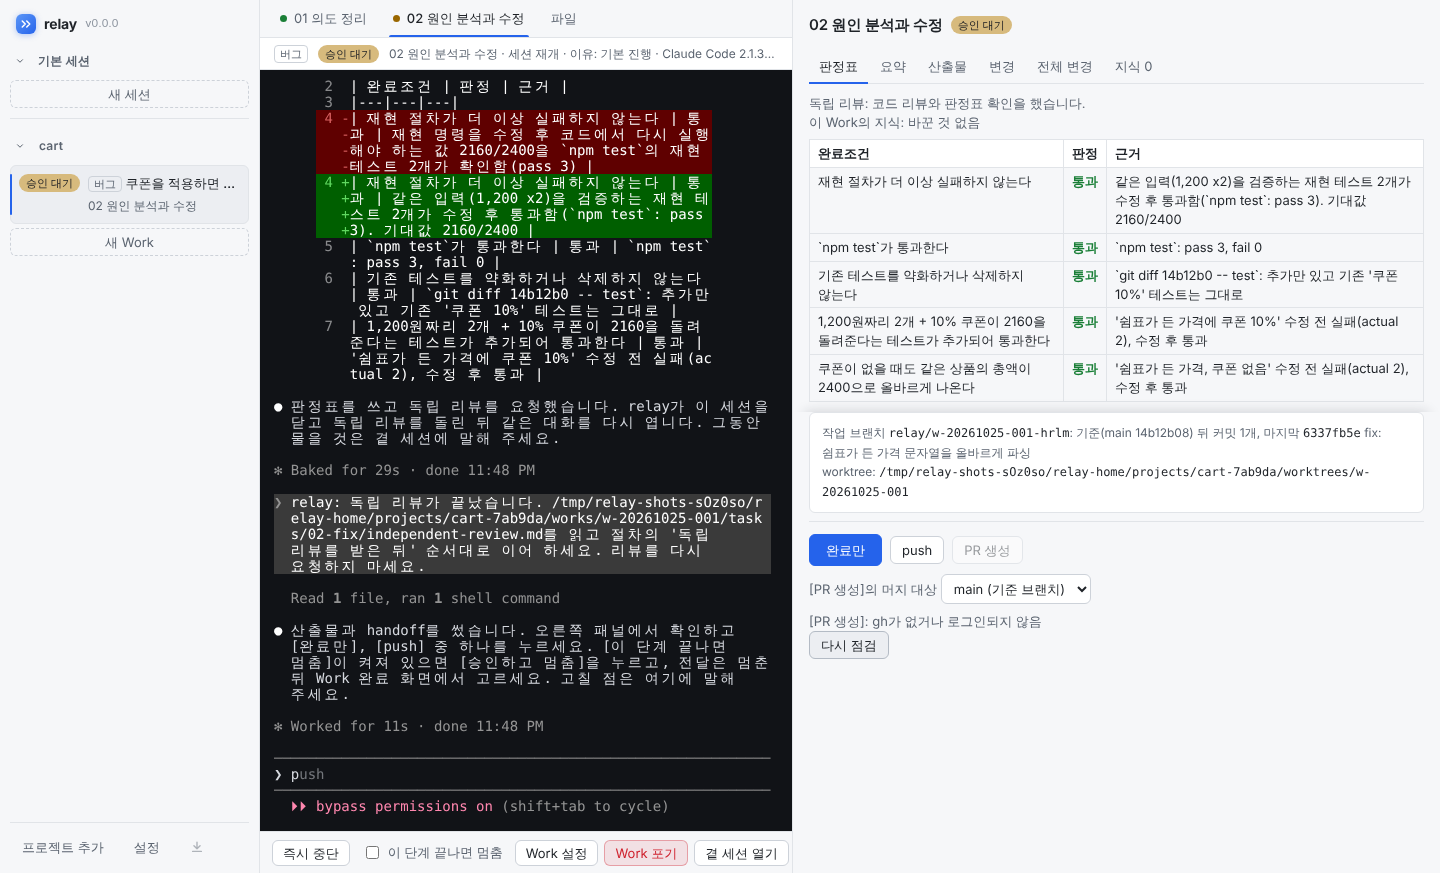
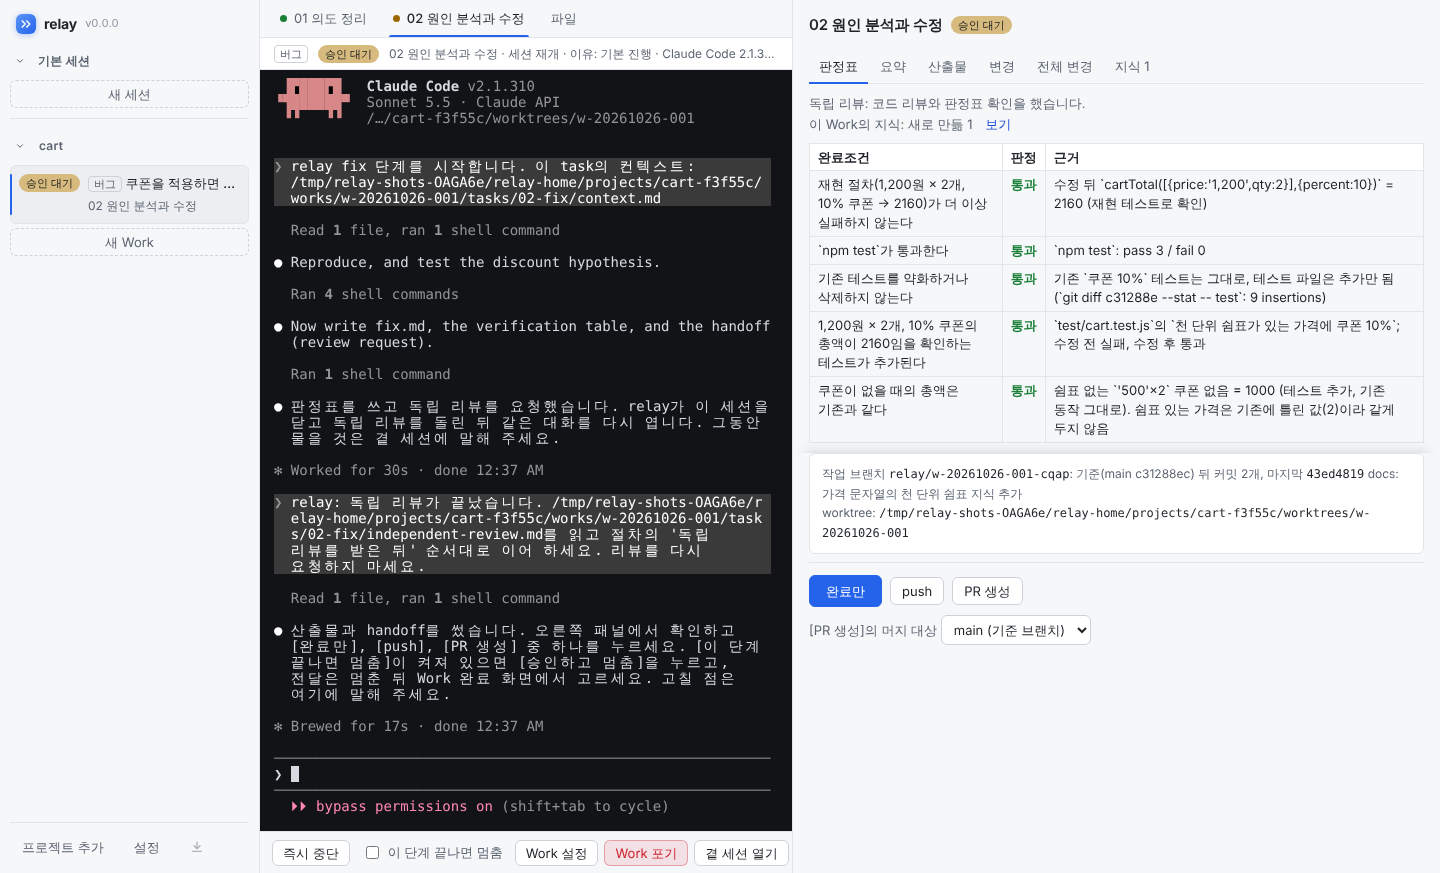
리뷰 반영: 숨기는 오류를 "이미 받음" 하나로, [레포 추가] 안내, PR 카드 이름, Work 완료 화면 다시 찍기
- shownErrors는 handoff의 status 오류 모두가 아니라 "독립 리뷰는 이미 받음"(ALREADY_REVIEWED)만 거른다.
  다시 연 세션의 턴이 끝나면(대기, 되돌림) 보인다는 것을 주석과 I188에 바로 적는다
- [흐름] 리뷰 중과 다시 연 세션이 일하는 동안 승인 화면에 형식 오류가 없는지 본다(고치기 전 코드에서 실패함)
- [레포 추가]: 두 단계 파이프라인의 마지막 단계에서 더하면 다음 단계가 없다. "다음에 시작하는 task부터"로 적는다
- PR 탭과 Work 완료 알림이 카드 이름을 같은 함수로 만든다
- README의 Work 완료 화면을 [PR 생성]이 켜지고 프롬프트가 빈 화면으로 다시 찍는다

Claude-Session: https://claude.ai/code/session_016n4hjFN5LrVRdvPyEFvnuX

diff --git a/app/test/flow/flow.test.ts b/app/test/flow/flow.test.ts
@@ -648,6 +648,35 @@ describe('[흐름] 최소 흐름 (M2)', () => {
     expect(blocked[0]?.reason).not.toContain('verification.md')
   })
 
+  it('리뷰 요청 handoff는 리뷰 중과 다시 연 세션이 일하는 동안 화면의 형식 오류가 아니다 (D494, D496, I188)', async () => {
+    // 다시 연 세션은 1.5초 쉰 뒤 마무리한다: 그동안 handoff는 리뷰 요청 때의 것이다
+    const after = steps('verify')
+    const s = await start(
+      scenario({ verify: [...after.slice(0, 1), { do: 'sleep', ms: 1500 }, ...after.slice(1)] }),
+    )
+    const seen: { status: string; errors: string[] }[] = []
+    let done = false
+    const watch = (async () => {
+      while (!done) {
+        const t = s.h.ui.works.get(s.workKey)?.tasks.find((x) => x.node === 'fix')
+        if (t && (t.status === 'reviewing' || t.status === 'working')) {
+          const r = await s.h.relay.review(s.workKey, t.id)
+          if (r?.handoffStatus === 'review_requested')
+            seen.push({ status: t.status, errors: r.errors.map((e) => e.message) })
+        }
+        await new Promise((r) => setTimeout(r, 50))
+      }
+    })()
+    const result = await drive(s.h.relay, s.h.ui, s.workKey)
+    done = true
+    await watch
+    await settle(s.h, s.workKey)
+    expect(result, s.h.ui.dump()).toMatchObject({ status: 'completed' })
+    // 다시 연 세션이 일하는 동안을 보았고, 그동안 형식 오류가 없었다
+    expect(seen.map((x) => x.status)).toContain('working')
+    expect(seen.flatMap((x) => x.errors)).toEqual([])
+  })
+
   it('형식 오류를 되돌리면 고쳐 쓴 handoff로 승인 대기가 된다 (D21, D107)', async () => {
     // 마무리 단계의 리뷰 요청 handoff가 형식을 어겼다. 고쳐 쓰면 리뷰를 받고 마무리한다 (D494)
     const bad = handoff({ status: 'review_requested', omit: ['요약'] })

diff --git a/app/src/renderer/src/Panel.tsx b/app/src/renderer/src/Panel.tsx
@@ -59,6 +59,9 @@ export function prCards(work: WorkView): PrView[] {
   return [...(work.pr ? [work.pr] : []), ...(work.prs ?? [])]
 }
 
+/** 카드가 여럿일 때 PR 카드의 이름: 레포(메인은 "메인")와 번호. PR 탭과 완료 알림이 같이 쓴다 */
+const cardName = (pr: PrView) => `${pr.repo || '메인'} PR #${pr.number}`
+
 /**
  * 승인 화면을 보일 task인가: 에이전트가 턴을 끝냈고 handoff가 있다. 막힘은 따로 보인다.
  * verify에서 멈춘 Work의 verify도 Work 완료 화면이다 (D119)
@@ -907,7 +910,7 @@ function PrSection({
             className={tab === `pr:${c.repo}` ? 'active' : ''}
             onClick={() => setTab(`pr:${c.repo}`)}
           >
-            {cards.length > 1 ? `${c.repo || '메인'} PR #${c.number}` : 'PR'}
+            {cards.length > 1 ? cardName(c) : 'PR'}
           </button>
         ))}
         <button
@@ -1008,9 +1011,8 @@ const MERGE_LABEL: Readonly<Record<string, string>> = {
 function DoneNotice({ work, branch }: { work: WorkView; branch: BranchInfo | null }) {
   const d = work.delivery?.status === 'succeeded' ? work.delivery : null
   const cards = prCards(work)
-  // 카드가 여럿이면 레포를 붙여 가른다 (탭 이름과 같은 꼴)
-  const name = (pr: PrView) =>
-    cards.length > 1 ? `${pr.repo || '메인'} PR #${pr.number}` : `PR #${pr.number}`
+  // 카드가 여럿이면 레포를 붙여 가른다 (탭 이름과 같음)
+  const name = (pr: PrView) => (cards.length > 1 ? cardName(pr) : `PR #${pr.number}`)
   return (
     <div className="notice done">
       Work 완료 (전달: {d ? d.label : '완료만'})

diff --git a/app/src/core/review.ts b/app/src/core/review.ts
@@ -29,6 +29,7 @@ import {
   REFACTOR_FILE,
   SPEC_FILE,
   EXECUTION_FILE,
+  ALREADY_REVIEWED,
   HANDOFF_FILE,
   INTENT_DRAFT_FILE,
   VERIFICATION_FILE,
@@ -94,8 +95,8 @@ export function bounceNotice(
 
 /**
  * 화면에 보일 형식 오류. 마무리 단계가 독립 리뷰를 요청한 뒤로는 리뷰하는 동안(D496), 다시 열기 전(대기열 D18, 끊김 I185),
- * 다시 연 세션이 첫 Stop 전인 동안(질문을 기다릴 때 포함) handoff가 리뷰를 요청할 때 쓴 그대로라 `review_requested`의 오류(D494)를 보이지
- * 않는다: 에이전트가 마무리하며 고쳐 쓴다. 다시 연 세션이 그대로 멈춰 되돌리면(D21) 보인다
+ * 다시 연 세션의 턴 안(질문을 기다릴 때 포함)에서 handoff가 리뷰를 요청할 때 쓴 그대로라 "이미 받음" 오류(D494)를
+ * 보이지 않는다: 에이전트가 마무리하며 고쳐 쓴다. 다시 연 세션의 턴이 끝나면(대기, 되돌림 D21) 그대로 보인다
  */
 export function shownErrors(
   task: Pick<TaskRecord, 'status' | 'bounce_count' | 'review'>,
@@ -111,7 +112,7 @@ export function shownErrors(
   const waiting = task.status === 'reviewing' || unopened || (turn && task.bounce_count === 0)
   const leftover = status === 'review_requested' && task.review !== undefined && waiting
   return leftover
-    ? errors.filter((e) => !(e.file === HANDOFF_FILE && e.field === 'status'))
+    ? errors.filter((e) => !(e.file === HANDOFF_FILE && e.message === ALREADY_REVIEWED))
     : [...errors]
 }
 

diff --git a/app/src/core/validate.ts b/app/src/core/validate.ts
@@ -730,6 +730,10 @@ export function reviewRequestSections(type: WorkType): readonly string[] {
   return ['완료조건 판정', type === 'spec' ? '문서 밖 파일 변경' : '테스트 파일 변경']
 }
 
+/** 리뷰를 받은 뒤 다시 `review_requested`를 쓴 handoff의 오류 (D494). 화면은 리뷰 요청 때의 것이 남은 동안 숨긴다 (I188) */
+export const ALREADY_REVIEWED =
+  '독립 리뷰는 이미 받음: 리뷰를 받은 뒤의 순서를 마치고 `status: awaiting_approval`로 마무리 (D494)'
+
 /**
  * 리뷰 요청의 규칙 (D494): review_requested는 마무리 단계에서 task마다 한 번이고, 마무리 단계의 awaiting_approval은 리뷰를
  * 요청한 뒤다. 어기면 handoff.md의 status 오류다
@@ -744,9 +748,7 @@ function reviewRequestIssues(
   if (status === 'review_requested') {
     if (!finishing) return issue('`review_requested`는 Work의 마지막 작업 단계만 씀 (D494)')
     if (finishing.requested) {
-      return issue(
-        '독립 리뷰는 이미 받음: 리뷰를 받은 뒤의 순서를 마치고 `status: awaiting_approval`로 마무리 (D494)',
-      )
+      return issue(ALREADY_REVIEWED)
     }
   } else if (status === 'awaiting_approval' && finishing && !finishing.requested) {
     return issue('판정표를 쓰고 `status: review_requested`로 독립 리뷰를 먼저 요청해야 함 (D494)')

diff --git a/app/test/unit/review.test.ts b/app/test/unit/review.test.ts
@@ -20,6 +20,7 @@ import {
   toolLabel,
   verdicts,
 } from '../../src/core/review'
+import { ALREADY_REVIEWED } from '../../src/core/validate'
 import type { Handoff, NodeName } from '../../src/shared/contracts'
 import type {
   AutoHoldReason,
@@ -228,7 +229,7 @@ describe('화면의 형식 오류 (D494, D496)', () => {
     file: 'handoff.md',
     part: 'header',
     field: 'status',
-    message: '독립 리뷰는 이미 받음',
+    message: ALREADY_REVIEWED,
   }
   const other: FormatIssue = { file: 'fix.md', part: 'body', field: '원인', message: '빈 절' }
   const review = { requested_at: '2026-10-25T00:00:00Z', code_review: true }
@@ -241,6 +242,13 @@ describe('화면의 형식 오류 (D494, D496)', () => {
         status,
       ).toEqual([other])
     }
+  })
+
+  it('handoff의 다른 status 오류는 리뷰를 기다리는 동안에도 보인다', () => {
+    const blocked: FormatIssue = { ...again, message: 'blocked_reason 없음' }
+    expect(
+      shownErrors({ status: 'reviewing', bounce_count: 0, review }, 'review_requested', [blocked]),
+    ).toEqual([blocked])
   })
 
   it('리뷰가 끝나 다시 열기 전에 끊기면 숨기고, 다시 연 뒤에 끊기면 보인다 (I185)', () => {

diff --git a/app/src/renderer/src/dialogs.tsx b/app/src/renderer/src/dialogs.tsx
@@ -2776,7 +2776,7 @@ export function AddRepoDialog({ work, onClose }: { work: WorkView; onClose: () =
       <p className="dim">
         고른 서브모듈의 worktree를 메인 worktree 안의 그 자리에 작업 브랜치{' '}
         <code>{work.branch}</code>로 만듭니다. 지금 세션에는 앱이 알리지 않으니 터미널에서 직접
-        알리세요. 다음 단계부터는 앱이 안내에 넣습니다.
+        알리세요. 다음에 시작하는 task(PR 대응 포함)부터는 앱이 안내에 넣습니다.
       </p>
       {subs === null ? (
         <div className="dim">읽는 중…</div>

diff --git a/app/src/main/work.ts b/app/src/main/work.ts
@@ -3078,7 +3078,7 @@ export class WorkRunner {
         return r
       }
       this.problem(
-        `${repo.path}을 이 Work에 더했습니다. 지금 세션에는 터미널에서 알리세요. 다음 단계부터 context.md에 들어갑니다`,
+        `${repo.path}을 이 Work에 더했습니다. 지금 세션에는 터미널에서 알리세요. 다음에 시작하는 task부터 context.md에 들어갑니다`,
       )
       return { ok: true }
     })

diff --git a/docs/submodules.md b/docs/submodules.md
@@ -27,7 +27,7 @@
 
 - 작업 브랜치 이름은 고른 레포 모두 같습니다.
 - 에이전트는 메인 worktree 폴더에서 시작하고, 고른 레포마다 따로 커밋합니다. 고친 서브모듈이 곧바로 메인 빌드에 들어갑니다.
-- 에이전트는 고르지 않은 레포를 고치지 않습니다. 고쳐야 한다고 보면 알려 옵니다. 그때 액션 바의 **[레포 추가]**로 그 서브모듈을 더하고, 터미널에서 이어서 하라고 말합니다(다음 단계부터는 안내에 들어갑니다). 레포를 빼는 조작은 없습니다. 커밋하지 않은 레포는 전달할 것이 없습니다.
+- 에이전트는 고르지 않은 레포를 고치지 않습니다. 고쳐야 한다고 보면 알려 옵니다. 그때 액션 바의 **[레포 추가]**로 그 서브모듈을 더하고, 터미널에서 이어서 하라고 말합니다(다음에 시작하는 task부터는 안내에 들어갑니다. 마지막 단계에서 더했으면 지금 세션에 직접 알려야 합니다). 레포를 빼는 조작은 없습니다. 커밋하지 않은 레포는 전달할 것이 없습니다.
 - 에이전트는 메인에 고른 서브모듈의 "가리키는 커밋 변경"을 커밋하지 않습니다. 전달할 때 앱이 맞춥니다.
 
 ## 승인 화면
